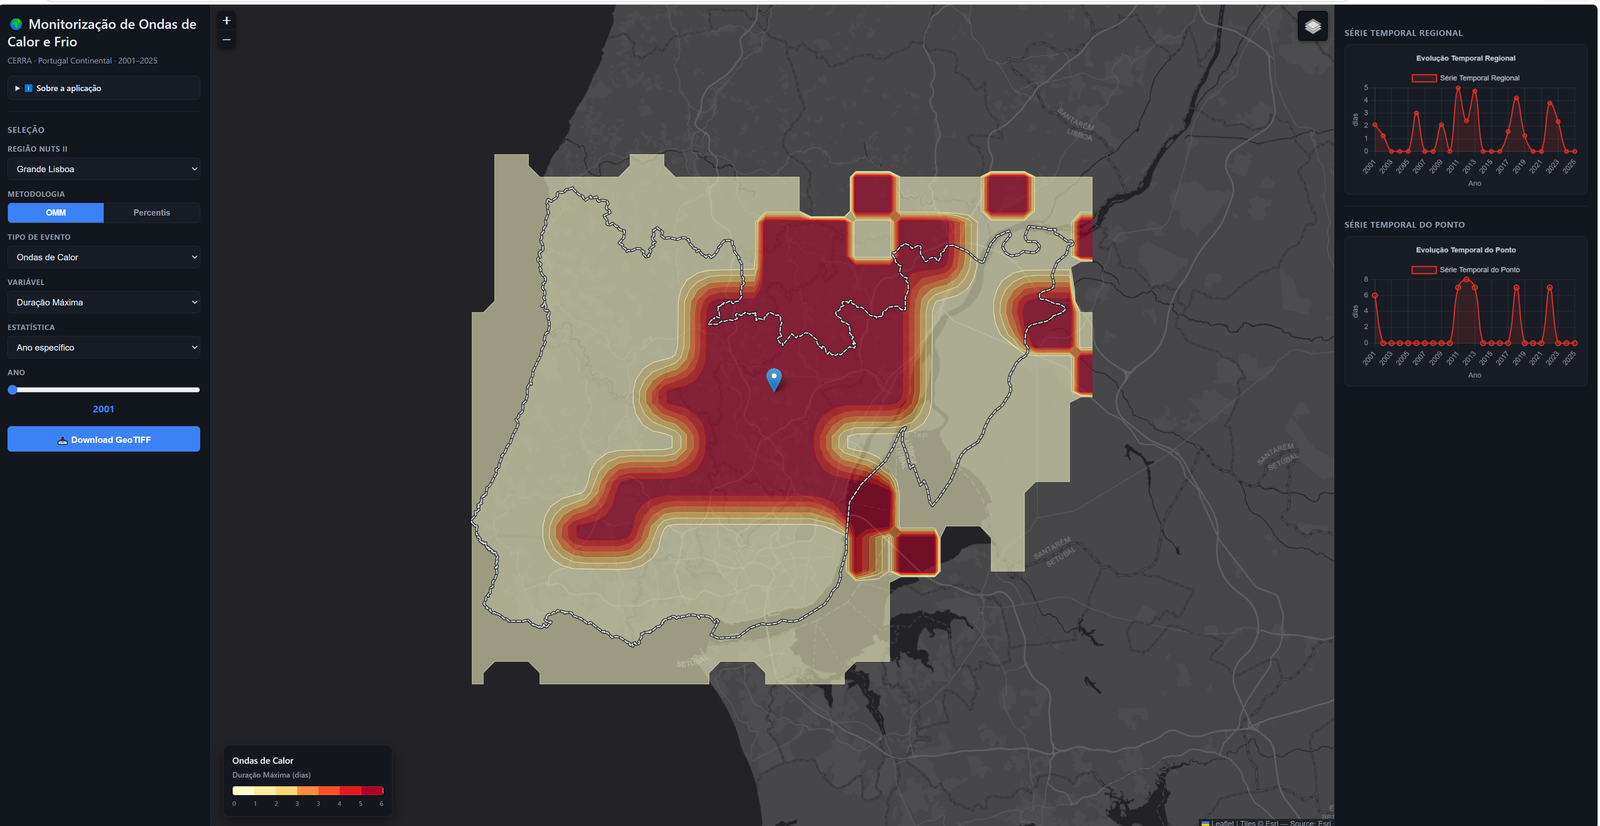
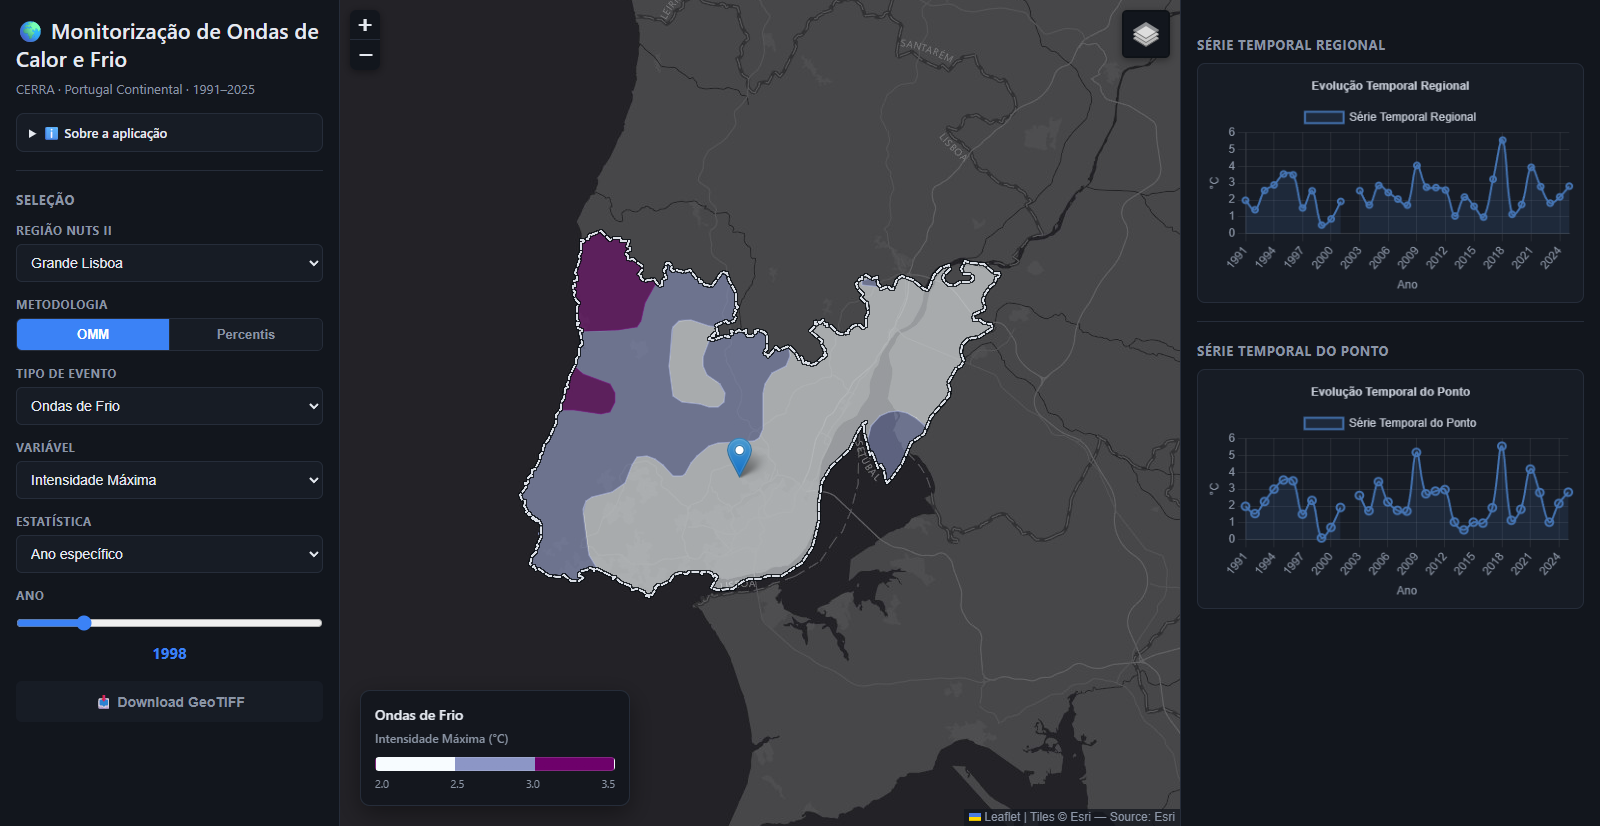
Replace screenshots with the current app (1991-2025)
The three screenshots showed the old version: 2001-2025, the download
button enabled, and isobands in "stair steps" before the exact NUTS
clip. Retaken from the updated static demo in headless Chrome, same
three regions.

The Grande Lisboa caption said "ondas de frio" over a heat-wave
screenshot; the new image is a real cold-wave view (OMM, intensidade
máxima, 1998), and the caption explains the gap in its charts (2002
has no OMM cold waves, so there is no intensity — not a zero).
Captions now name method and statistic.

diff --git a/README.md b/README.md
@@ -15,13 +15,16 @@ entre 1991 e 2025, a partir dos dados de reanálise **CERRA**
 
 ## Capturas de ecrã
 
-**Ondas de calor — número de eventos, região Norte**
+**Ondas de calor (OMM) — número de eventos, média de longo prazo, região Norte**
 ![Ondas de calor, região Norte](images/heat-norte.png)
 
-**Ondas de frio — duração máxima, Grande Lisboa**
+**Ondas de frio (OMM) — intensidade máxima em 1998, Grande Lisboa**
 ![Ondas de frio, Grande Lisboa](images/cold-lisboa.png)
 
-**Ondas de calor — intensidade total, Alentejo**
+Nos gráficos, a falha em 2002 é intencional: nesse ano não houve
+ondas de frio OMM, por isso a intensidade não existe (não é zero).
+
+**Ondas de calor (Percentis) — intensidade total, máximo de longo prazo, Alentejo**
 ![Ondas de calor, Alentejo](images/heat-alentejo.png)
 
 ## O que é
